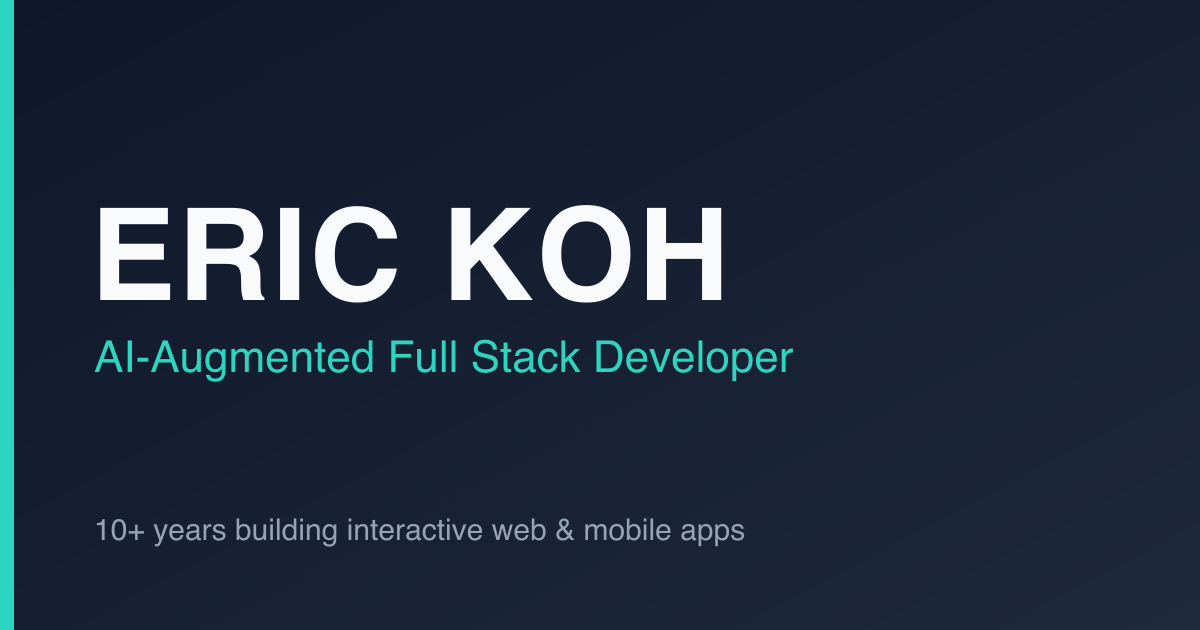
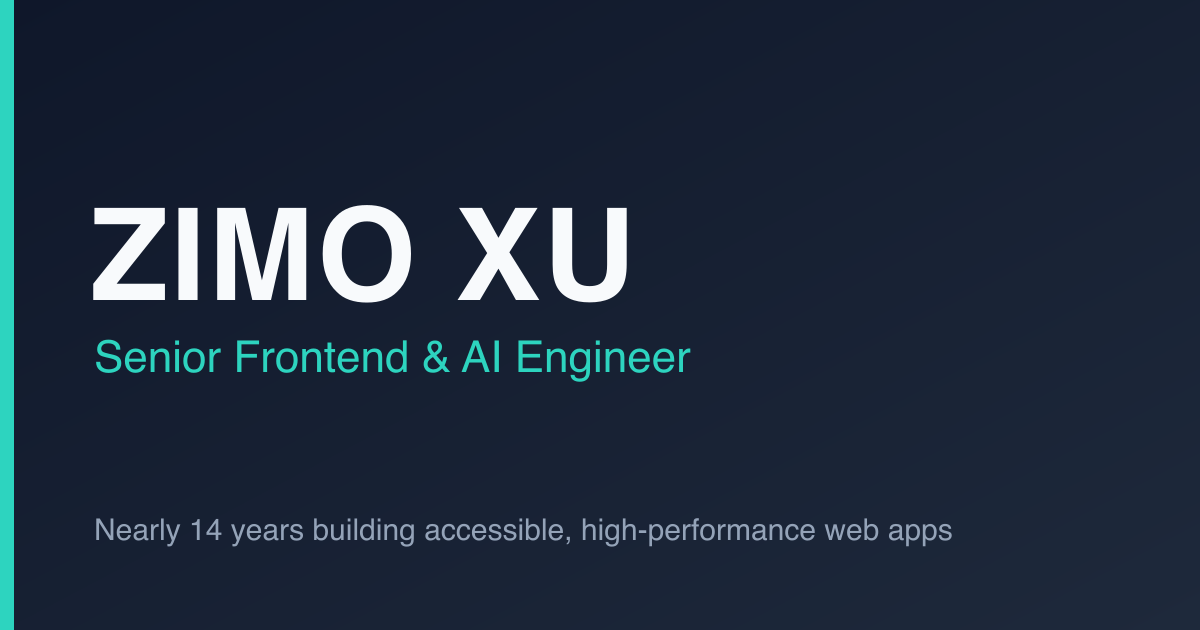
content: rebrand to Zimo Xu and refresh CV copy
- Update name across hero, page metadata, 404, README, OG image and icons (EK -> ZX)
- New headline: Senior Frontend & AI Engineer; refresh typewriter phrases
- Rewrite About: nearly 14 years, product mindset, McDonald's Japan, Porto,
  daily Claude Code use, learning AI agent development
- Rewrite experience bullets with action verbs; add Baopals product bullet;
  align titles/dates with resume; tighten project descriptions
- Fix typos (resuable, Structs -> Struts) and refresh skills bar labels

Changed region(s): [[0.0617, 0.3016, 0.6167, 0.4825], [0.0617, 0.8143, 0.8017, 0.8746], [0.0617, 0.5429, 0.6783, 0.6032]]

diff --git a/README.md b/README.md
@@ -1,6 +1,6 @@
 # one-piece
 
-Personal portfolio / CV site for Eric Koh, built with [Astro](https://astro.build/) and [Tailwind CSS](https://tailwindcss.com/). Live at [ierickoh.com](https://www.ierickoh.com).
+Personal portfolio / CV site for Zimo Xu, built with [Astro](https://astro.build/) and [Tailwind CSS](https://tailwindcss.com/). Live at [ierickoh.com](https://www.ierickoh.com).
 
 ## Tech stack
 
